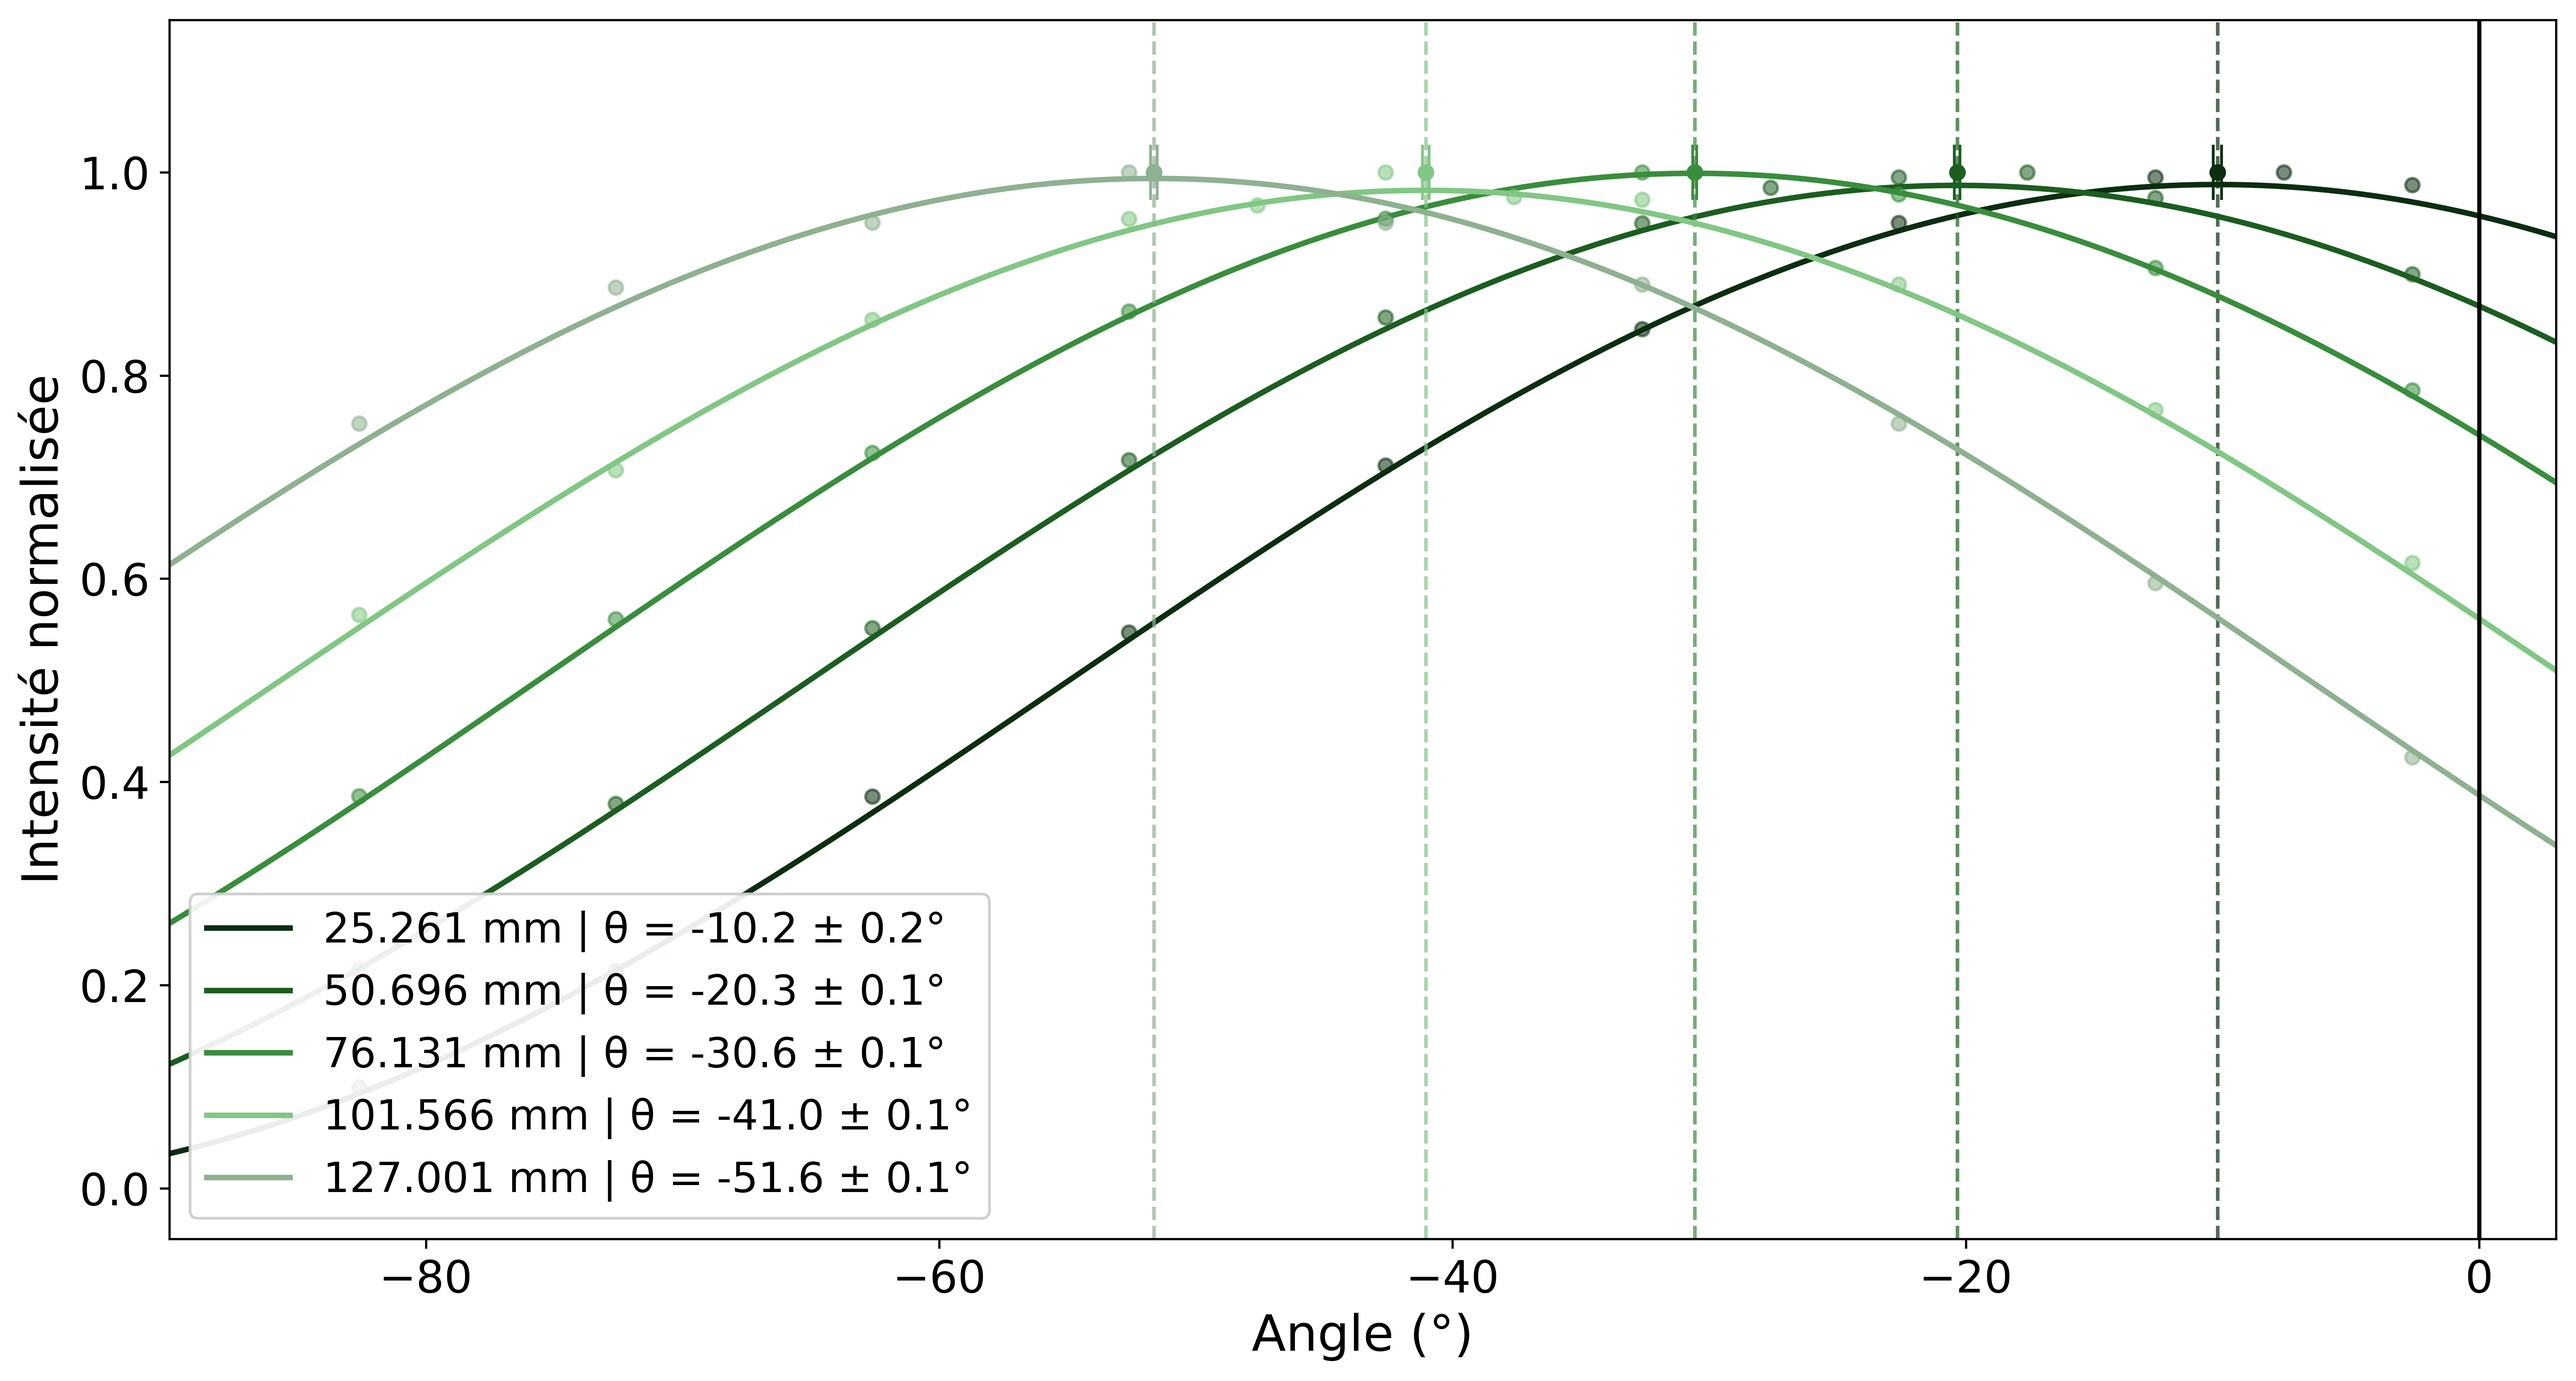
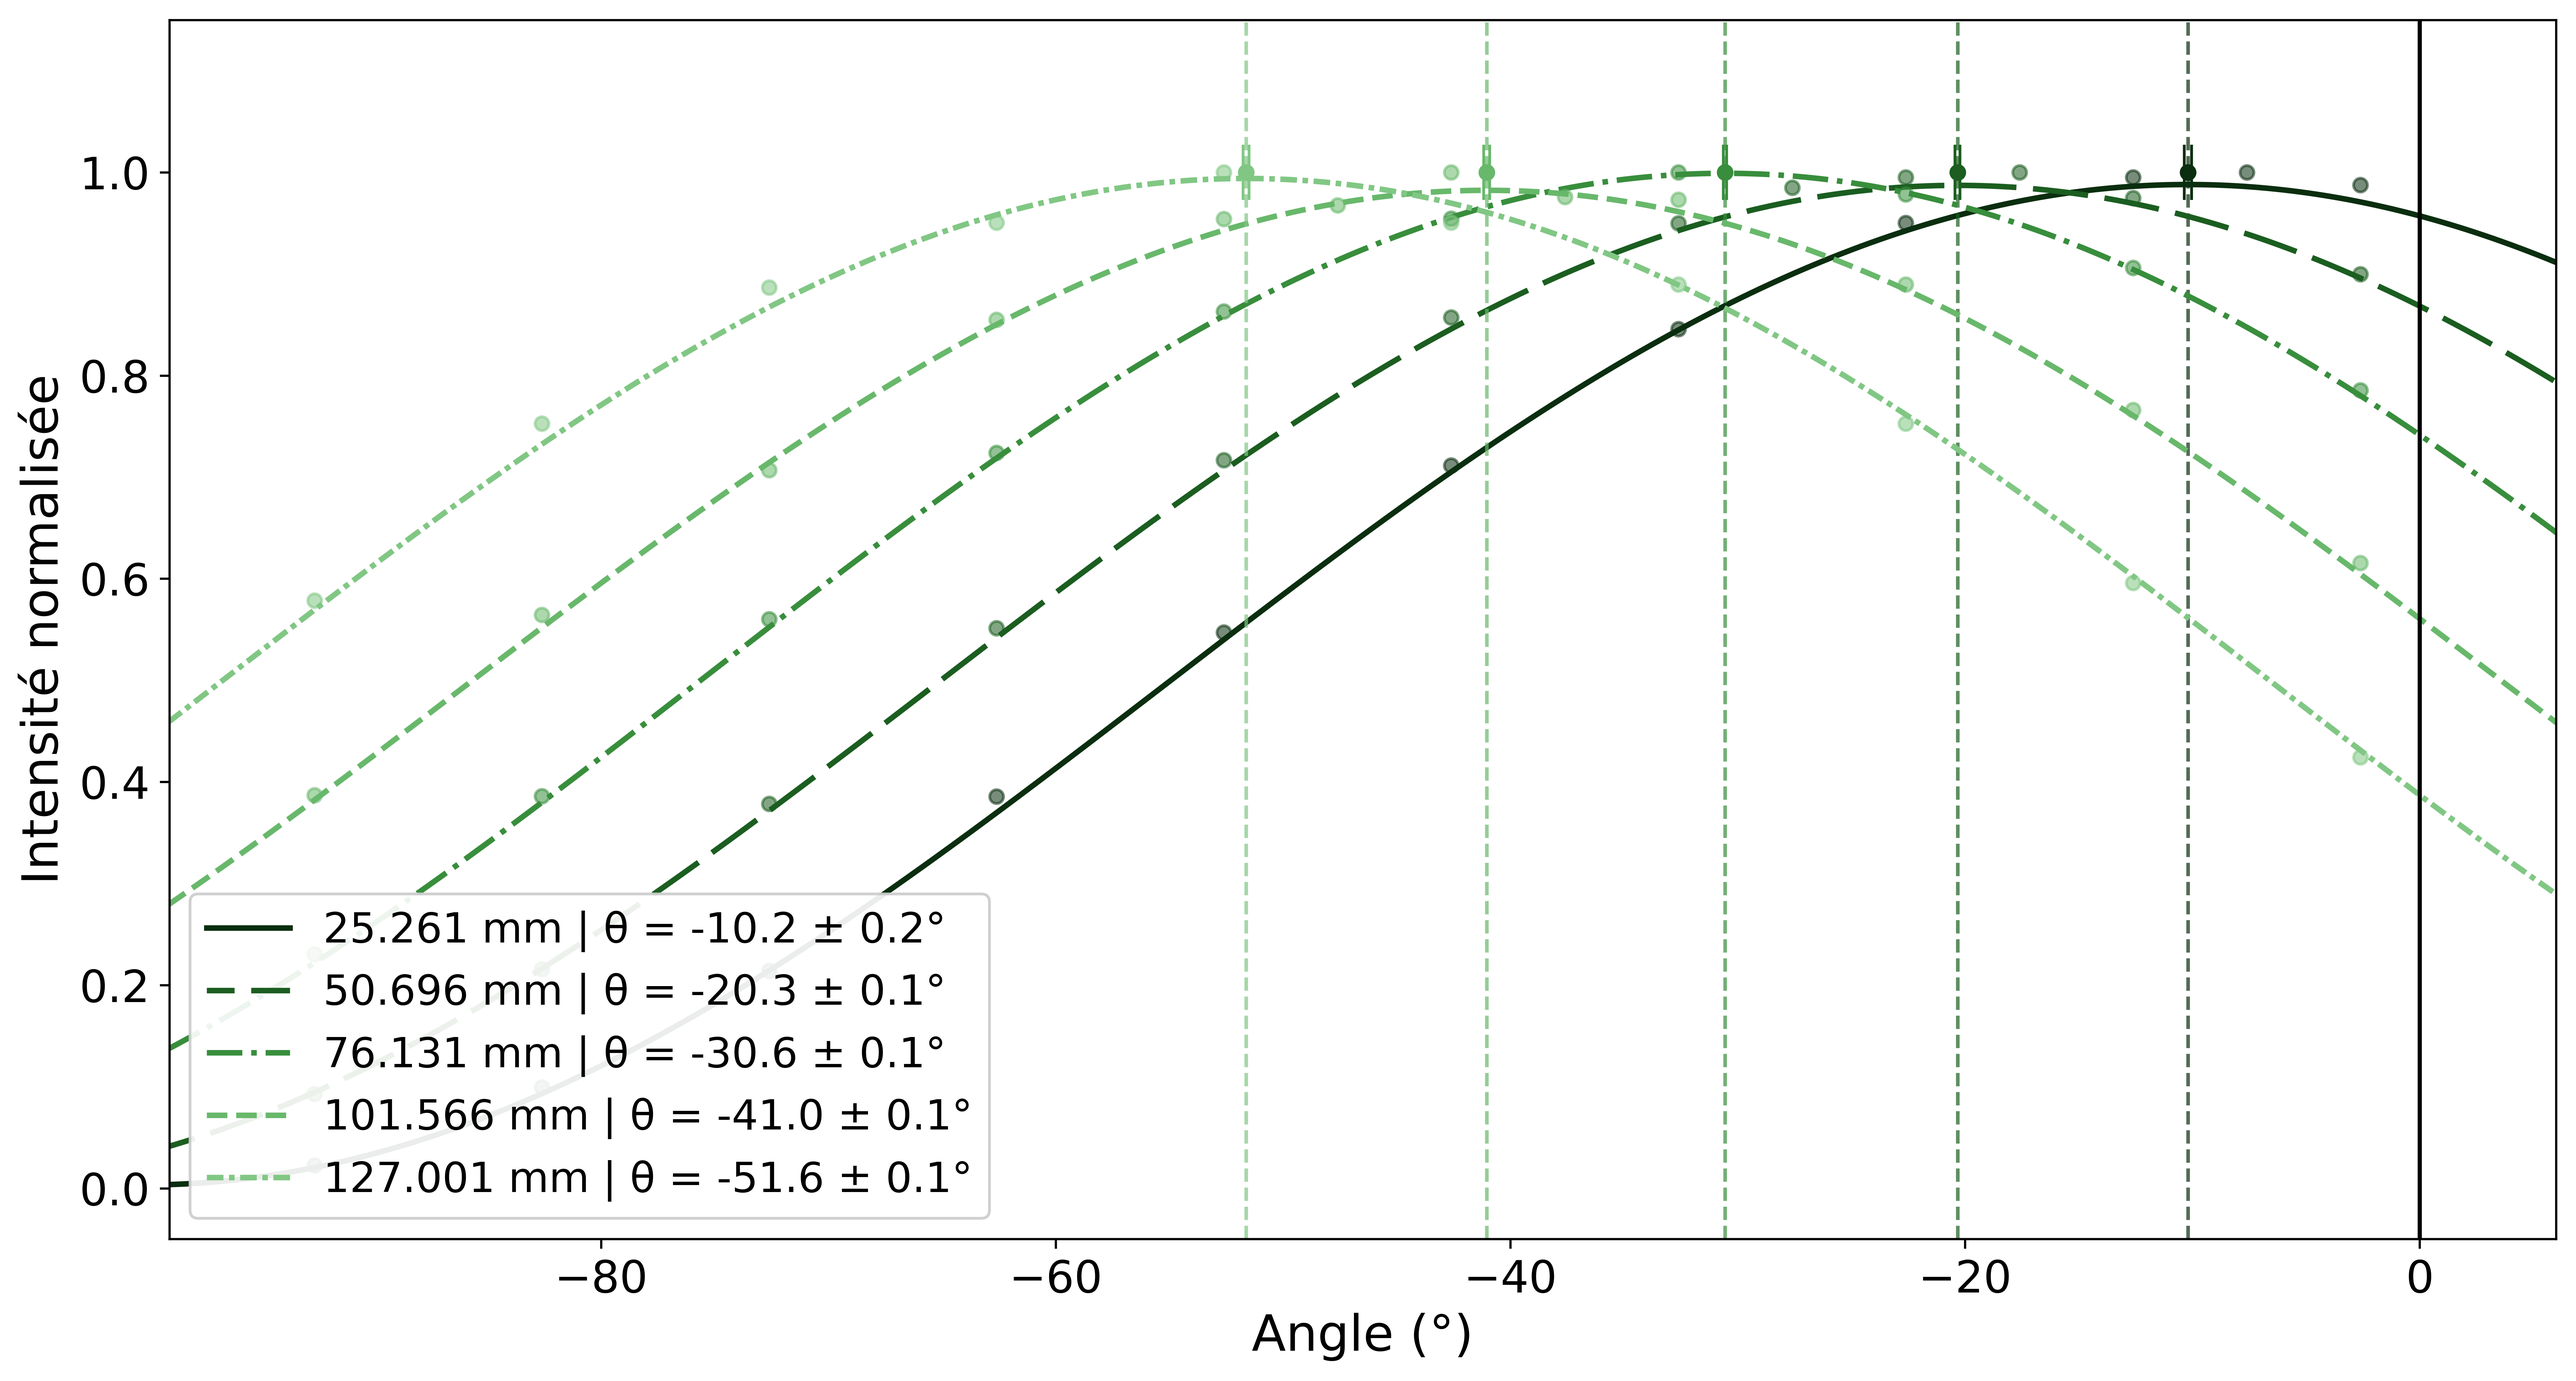
Changements lignes sur graphiques

diff --git a/Projet_2/mélange_comparaison.py b/Projet_2/mélange_comparaison.py
@@ -25,7 +25,8 @@ angles = angles_totaux - theta_zero
 def sinusoidal(x, A, B, phi, C):
     return A * np.sin(np.deg2rad(B * x + phi)) + C
 
-vec_col = ["#8861CB", "#3D275F"]
+vec_col = ["#E53935", "#00ACC1"]
+line_styles = [(0, (5, 1)), (0, (5, 1, 1, 1, 1, 1))]
 
 fig, ax = plt.subplots(figsize=(13, 7))
 
@@ -83,6 +84,7 @@ for i, col in enumerate(longueur):
     ax.plot(
         x_smooth, y_smooth,
         color=vec_col[i], linewidth=2,
+        linestyle=line_styles[i],
         label=f"{longueur[i]} | θ = {x_max:.2f} ± {sigma_theta:.2f}°"
     )
     ax.errorbar(
@@ -96,7 +98,7 @@ for i, col in enumerate(longueur):
         "Delta Theta (deg)": sigma_theta
     })
 
-    ax.axvline(x_max, color=vec_col[i], linestyle='--', linewidth=1.5)
+    ax.axvline(x_max, color=vec_col[i], linestyle=line_styles[i], linewidth=1.5)
 
 ax.set_xlabel("Angle (degrés)", fontsize=18)
 ax.set_ylabel("Intensité normalisée", fontsize=18)

diff --git a/Projet_2/fructose_comparaison.py b/Projet_2/fructose_comparaison.py
@@ -6,13 +6,14 @@ from scipy.optimize import curve_fit
 
 # PARAMÈTRES
 theta_zero = 302.61
-ANGLE_MIN  = -90
-ANGLE_MAX  = 3
+ANGLE_MIN  = -99
+ANGLE_MAX  = 6
 
 longueurs = ['25.261 mm', '50.696 mm', '76.131 mm', '101.566 mm', '127.001 mm']
 results = []
 
-vec_col = ["#0A2E0F", "#1B5E20", "#388E3C", "#81C784", "#8EB190", "#FFD600"]
+vec_col = ["#0A2E0F", "#1B5E20", "#388E3C", "#68B86B", "#81C784"]
+line_styles = ['-', (5, (10, 3)), '-.', '--', (0, (3, 1, 1, 1))]
 
 base_dir = os.path.dirname(os.path.abspath(__file__))
 excel_path = os.path.join(base_dir, "Projet_2_31_mars.xlsx")
@@ -86,6 +87,7 @@ for i, (longueur, col) in enumerate(colonnes_trouvees.items()):
         ax.plot(
             x_smooth, y_smooth,
             color=vec_col[i], linewidth=2,
+            linestyle=line_styles[i],
             label=f"{longueur} | θ = {x_max:.1f} ± {sigma_theta:.1f}°"
         )
 

diff --git a/Projet_2/glucose_comparaison.py b/Projet_2/glucose_comparaison.py
@@ -15,6 +15,7 @@ longueur   = ["35.435 mm", "55.783 mm", "76.131 mm", "96.479 mm", "127.001 mm"]
 results    = []
 
 vec_col = [ "#4A1800", "#8F3200", "#B85010", "#D4702A", "#E8955A", "#D4A017",]
+line_styles = ['-', (5, (10, 3)), '-.', '--', (0, (3, 1, 1, 1))]
 
 # ============================================================
 # CHARGEMENT
@@ -98,6 +99,7 @@ for i, col in enumerate(longueur):
         x_smooth,
         y_smooth,
         color=vec_col[i],
+        linestyle=line_styles[i],
         linewidth=2,
         label=f"{col} | θ = {x_max:.1f} ± {sigma_theta:.1f}°"
     )
